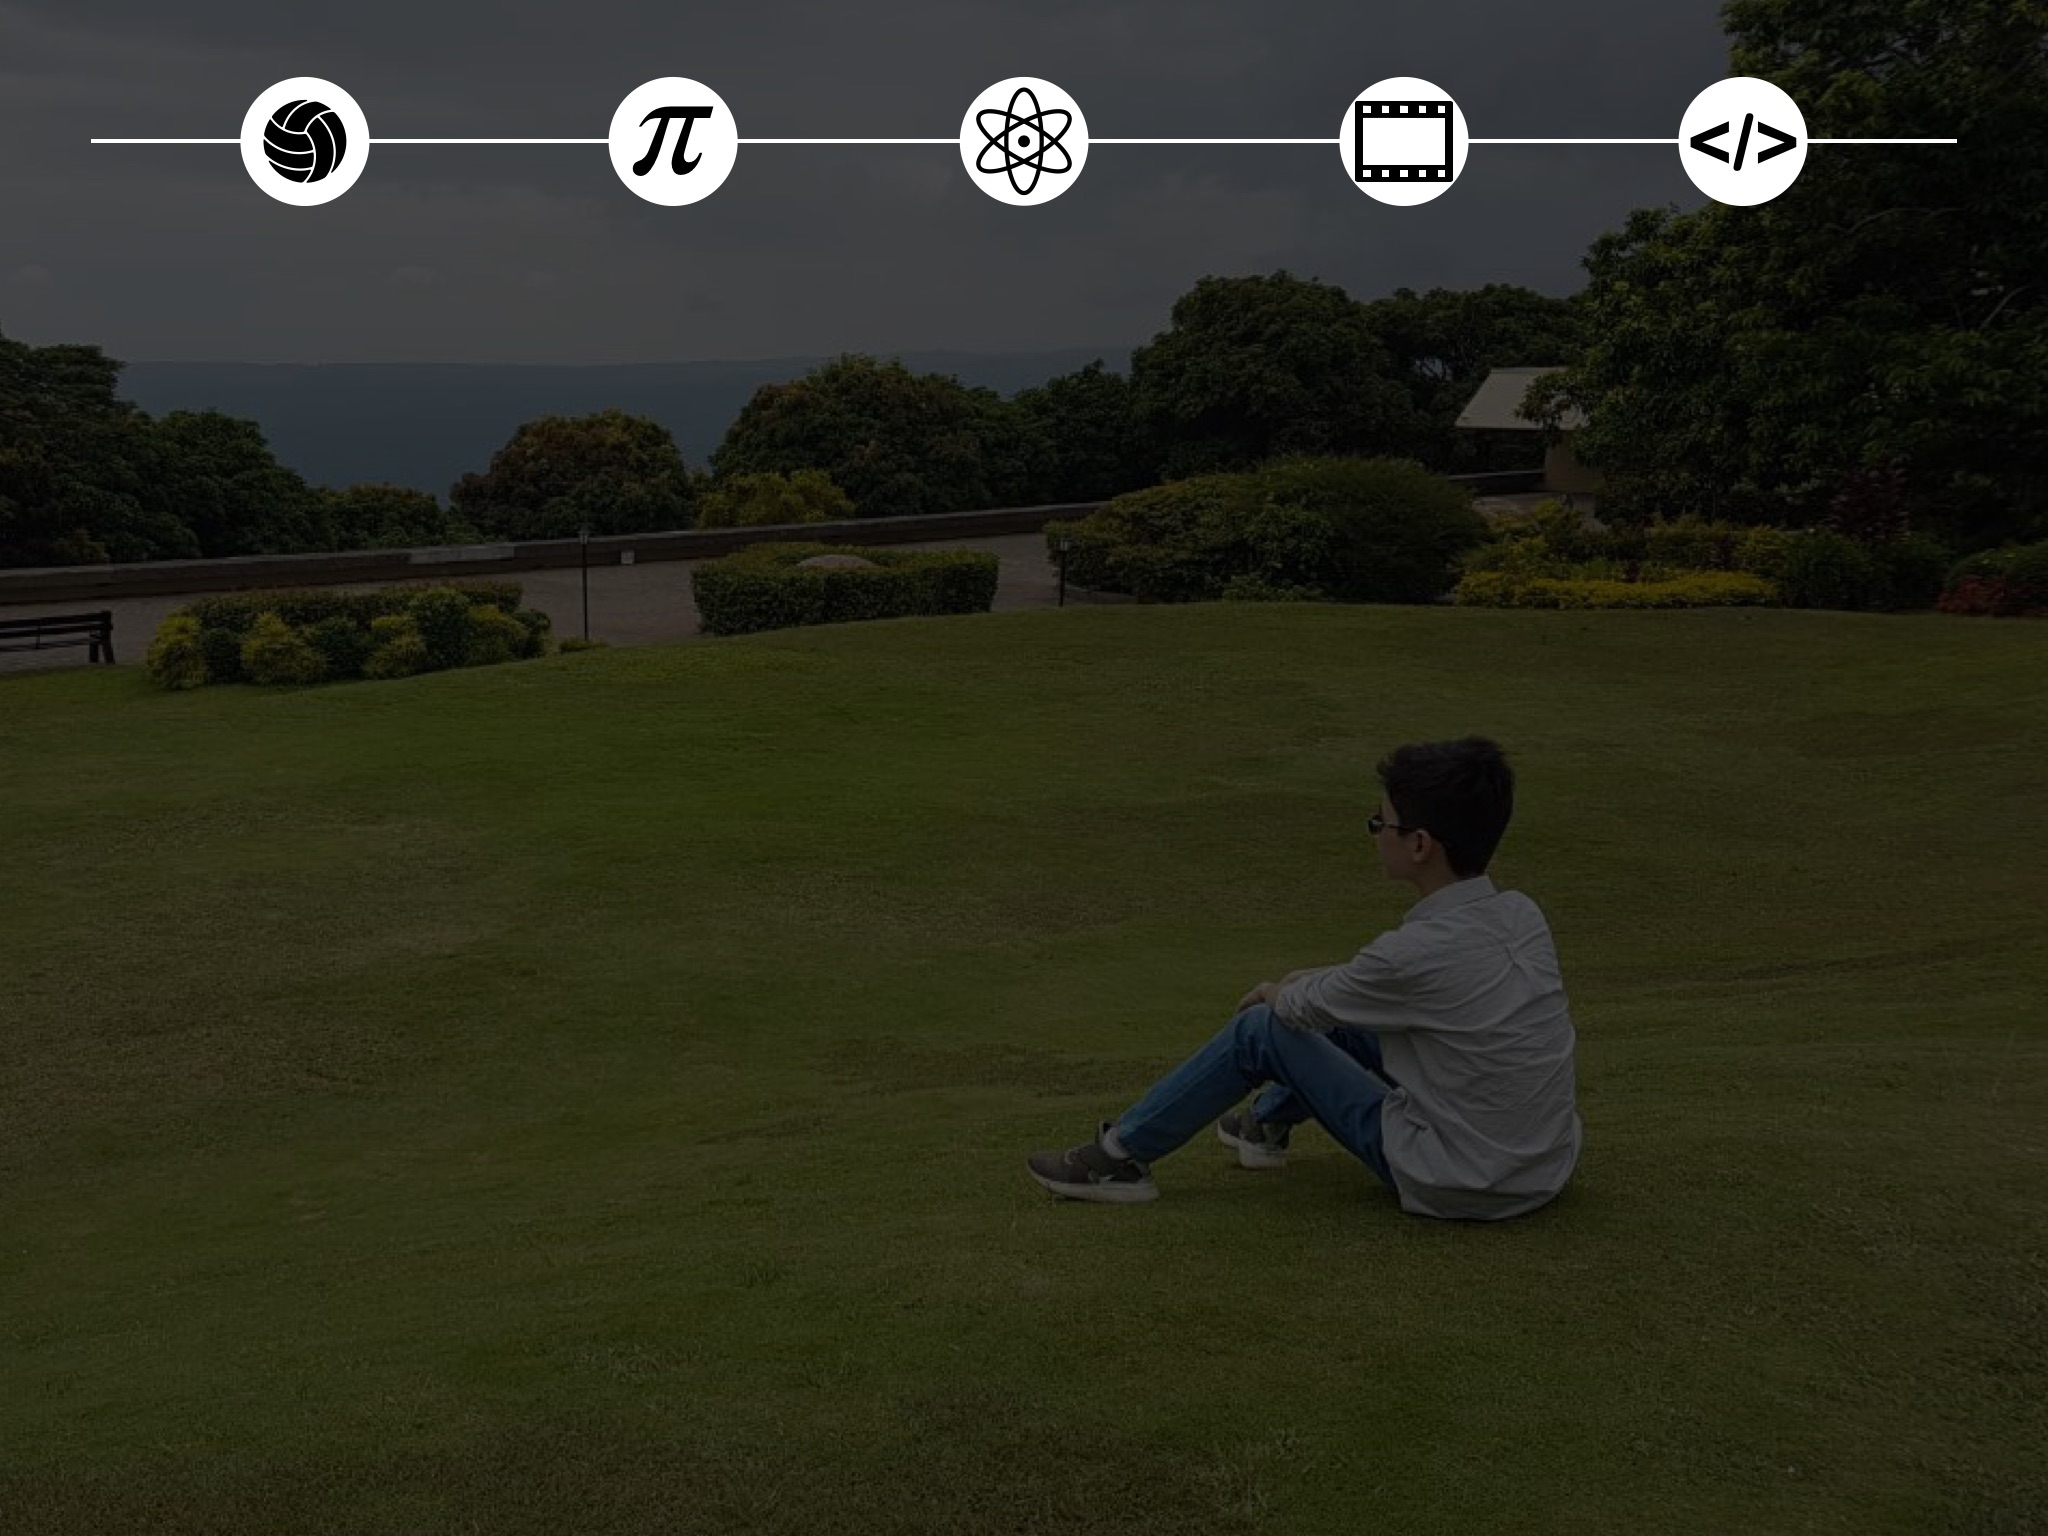
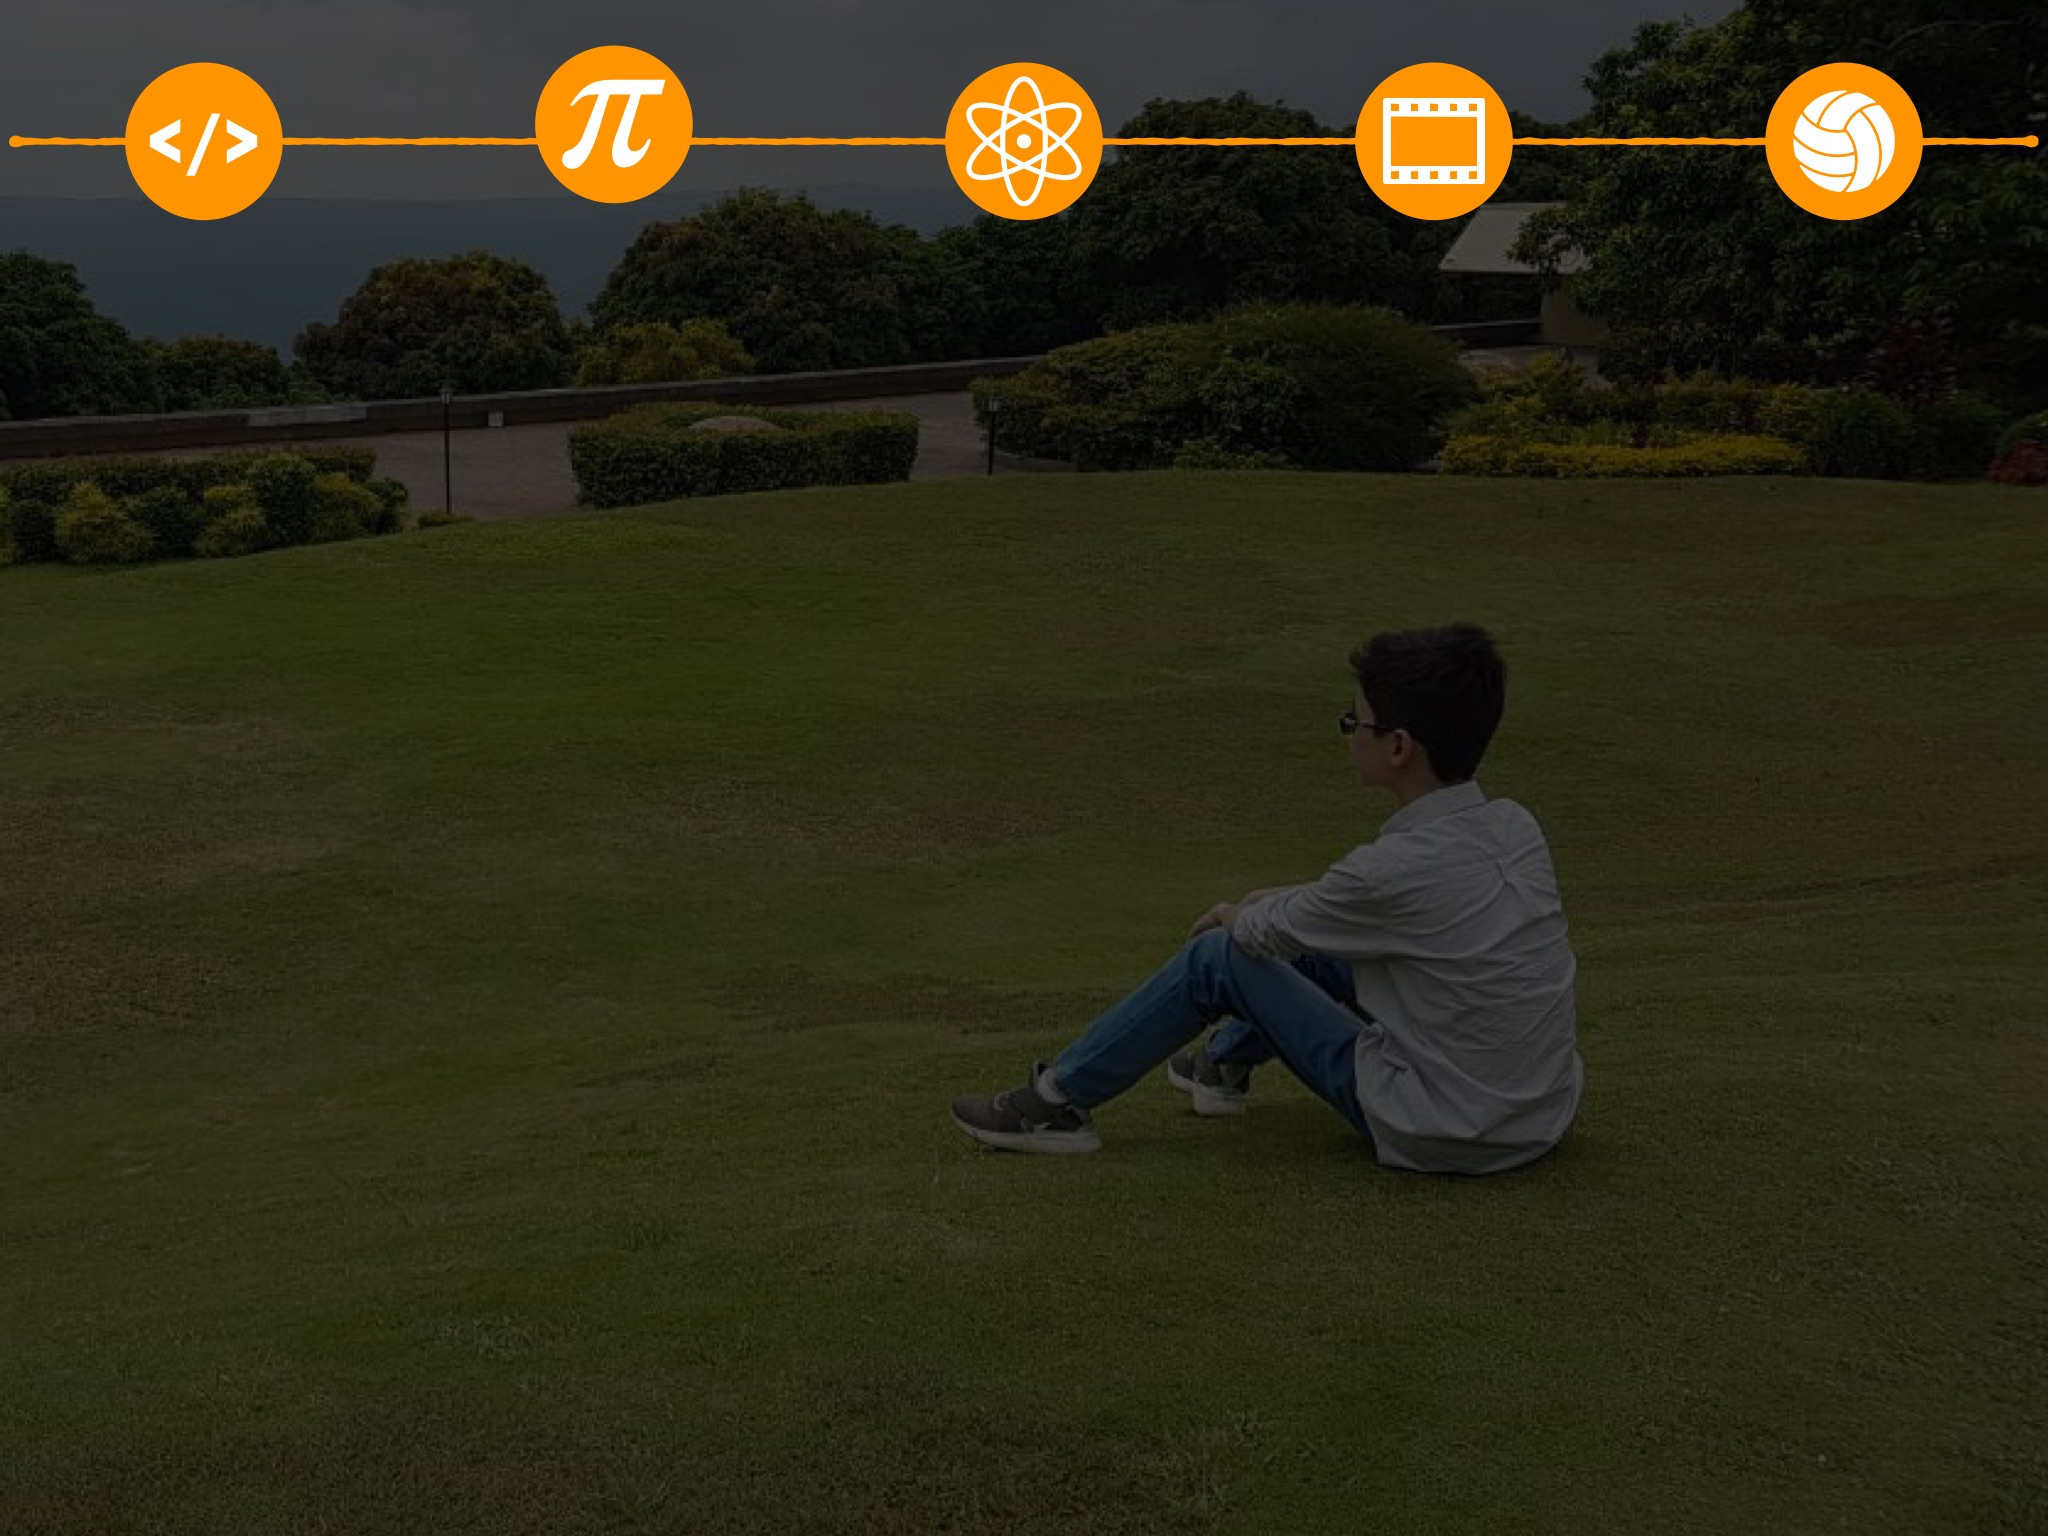
new background for header

Changed region(s): [[0.0, 0.0, 1.0, 0.8125]]

diff --git a/index.html b/index.html
@@ -1,3 +1,4 @@
+
 <!doctype html>
 
 
@@ -18,7 +19,7 @@ Joaquin de Castro
 
 
 
-<div class="header">
+<header>
 
 
 
@@ -26,15 +27,14 @@ Joaquin de Castro
 
 
 
-  <h2>De Castro</h2>
+  <h2><span style="color: #E18A07">D</span>e <span style="color: #E18A07">C</span>astro</h2>
 
 
 
-  <p style="text-align: center; font-family: 'Indie Flower', cursive; color: white; font-size: 4vw; ">Nerdiness at it’s best</p>
+  <p style="text-align: center; font-family: 'Major Mono Display', monospace; color: white; font-size: 4vw; ">Nerdiness at it’s best</p>
 
 
-
-</div>
+</header>
 
 
 
@@ -45,20 +45,36 @@ Joaquin de Castro
 
 
 
-<div class="main">
+<section id="intro">
 	<h2 style="color: black; font-size: 4vw;">Scrappy Little Nobody</h2>
 	<p>So, you're here to be inspired, to be motivated, to receive whatever knowledge a kid like me can impart to you, well, to be honest, the only piece of advice I can give you right now is to click that return button. No one could have described it better than Anna Kendrick, I'm just a Scrappy Little Nobody, and I bet there thousands of people in the internet INCLUDING Anna that have thrice the experience and a billion times the wisdom who are more worth your internet surfing time. Now my English teacher would call this false humility, but hey, it's not false if it's true, right? Anyway, for those who have stuck around, I guess that makes you guys my guests and me your host, and as your host, it's my job to show you all around, so please, come in and take a peak into my life...</p>
+</section>
 
-</div>
+<section>
+	<h2>Math is the only place where <span>truth</span> and <span>beauty</span>mean the same thing</h2>
+	<p></p>
+</section>
 
+<section>
+	<h2> Video/Movie editing:</h2>
+    <p>I'll admit, here and now, that I don't have mcuh of an eye for videos or movies, nor am I good at being in one ( though I wish I was, getting a Tony when I grow up would give me an excuse to meet famous actors and actresses [ Anna Kendrick, James Corden and whoever played Oliver Queen in <i>Arrow</i>, just to name a few]). But there is something about making and editing videos that just seems so entertaining and fulfilling. Yet to be honest, I'm no expert in this field either,</p>
+</section>
 
+<section>
+	<h2>M.T.G></h2>
+	<p>The Mathmatics Trainer's Guild, through rigorous training programs, aims to "to institutionalize excellence in mathematics education and training in the Philippines in order to upgrade the discipline to meet international standards and to provide the basis for scientific and technological manpower needed for the country’s education, modernization and industrialization." Essentially, it gets math nerds from all around the country and fills their brain with even more math, sends them to other countries to compete and then hope they can use all the stuff you learned to, in Donald Trump's words: <i>"make the country great again"</i>opened my eyes to the realm of competitive mathematics beyond the walls of the classroom or even the School. You get to be exposed at an early age to not only teachers but to</p>
+</section>
 
+<section>
+	<h2>Volleyball and other sports I'm bad at...</h2>
+	<p>Yes, I was varsity for a year ( give or take ), but that's it, and until now I still can't set properly. </p>
+</section>
 
-<div class="footer">
+<section>
+	<h2>Web Development, and more...</h2>
+	<p></p>
+</section>
 
-	<h2>Footer</h2>
-
-</div>
 
 
 

diff --git a/myblogcss.css b/myblogcss.css
@@ -1,4 +1,10 @@
-div.header {
+body {
+	padding: 0;
+	margin: 0;
+	background-color: gray;
+}
+
+header {
 background-repeat: no-repeat;
 	height: 60vw;
 padding-top: 0;
@@ -6,10 +12,6 @@ background-size: 100% 100%;
 	background-image: url("Image-1.jpg")
 
 }
-body {
-	margin-top: 0;
-}
-
 
 .navbar {
 
@@ -66,7 +68,9 @@ h1 {
     padding-left: 10vw;
 }
 
-
+h1::first-letter {
+	color:#E18A07;
+}
 
 h2 {
 
@@ -78,11 +82,14 @@ h2 {
     margin-top: 0;
 
 }
+
+
 p {
 	font-size: 2vw;
-        font-family: Helvetica, Arial, sans-serif; 
-        font-weight:100;
-	padding: 1vw 2vw 2vw 1vw;
+    font-family: Helvetica, Arial, sans-serif; 
+    font-weight:100;
+	padding: 5vw 3vw 5vw 5vw;
+	line-height: 1.5;
 }
 p::first-letter {
 	font-family: 'Major Mono Display', monospace;
@@ -98,20 +105,12 @@ p::first-letter {
 
 }
 
-
-
-.right {
-
-padding-left: 70vw;
-
-}
-
-.main {
+section {
 
 	flex: 90%;
 	box-shadow: 10px 5px 5px black;
 	margin-top: 3vw;
-        margin-left: 3vw;
+    margin-left: 3vw;
 	margin-right: 3vw;
 	background-color: white;
 
